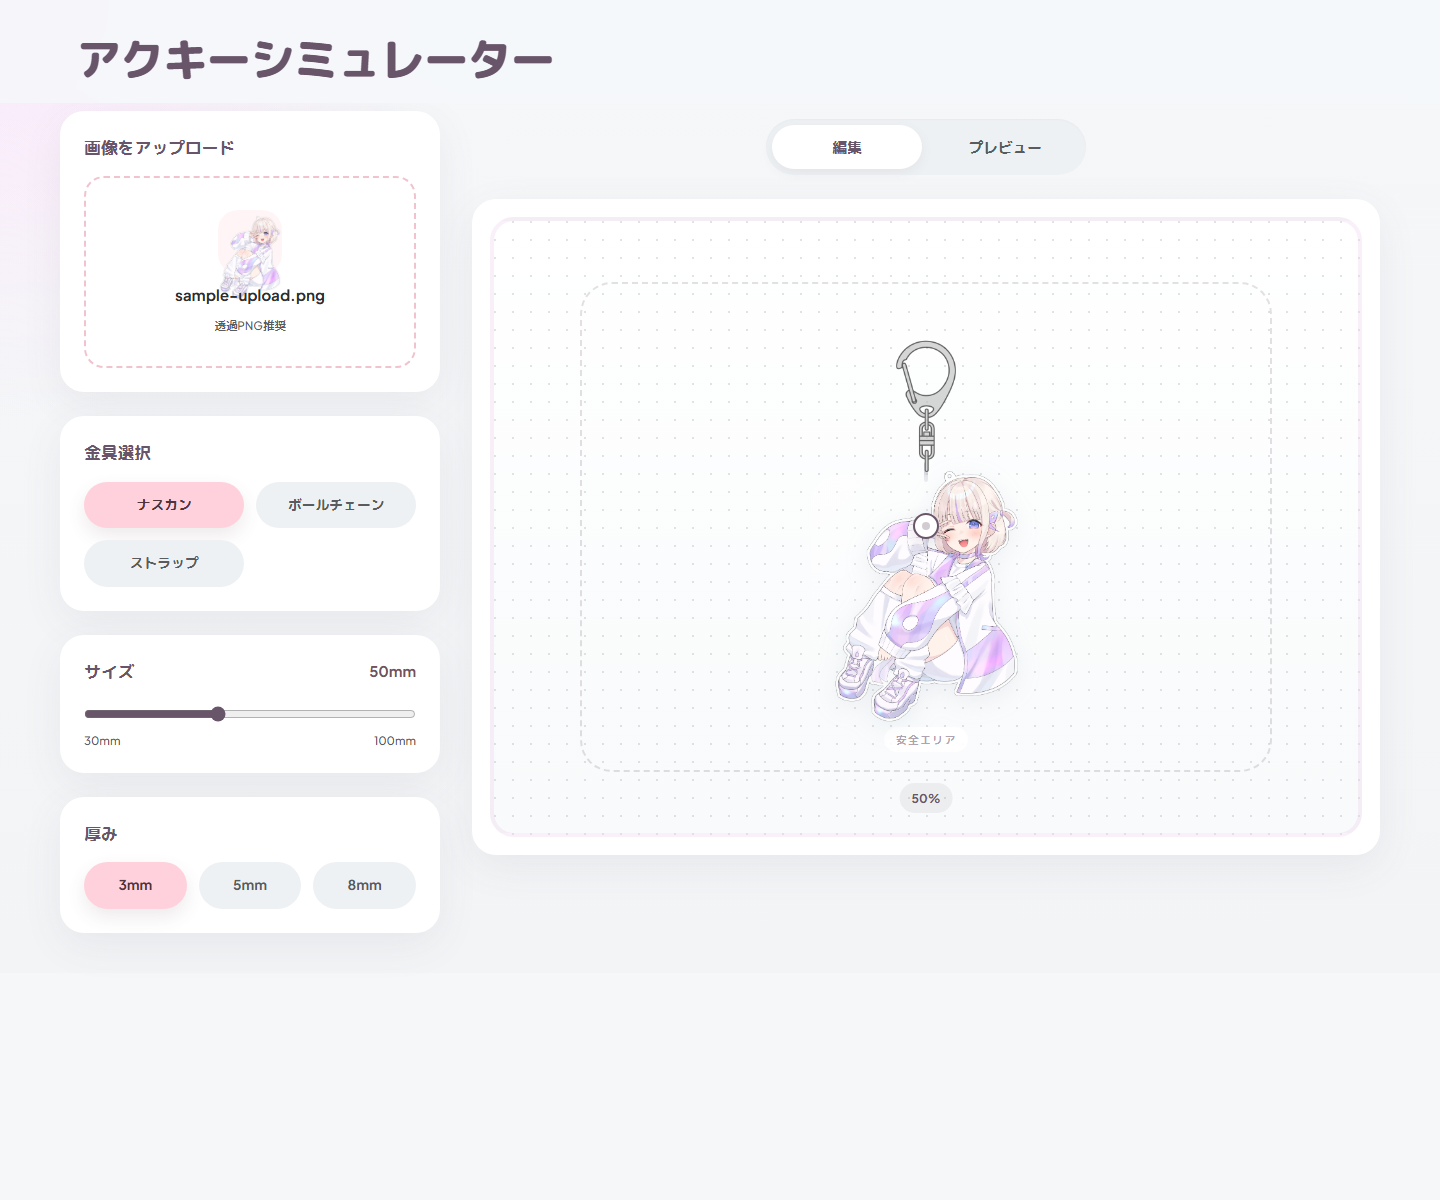
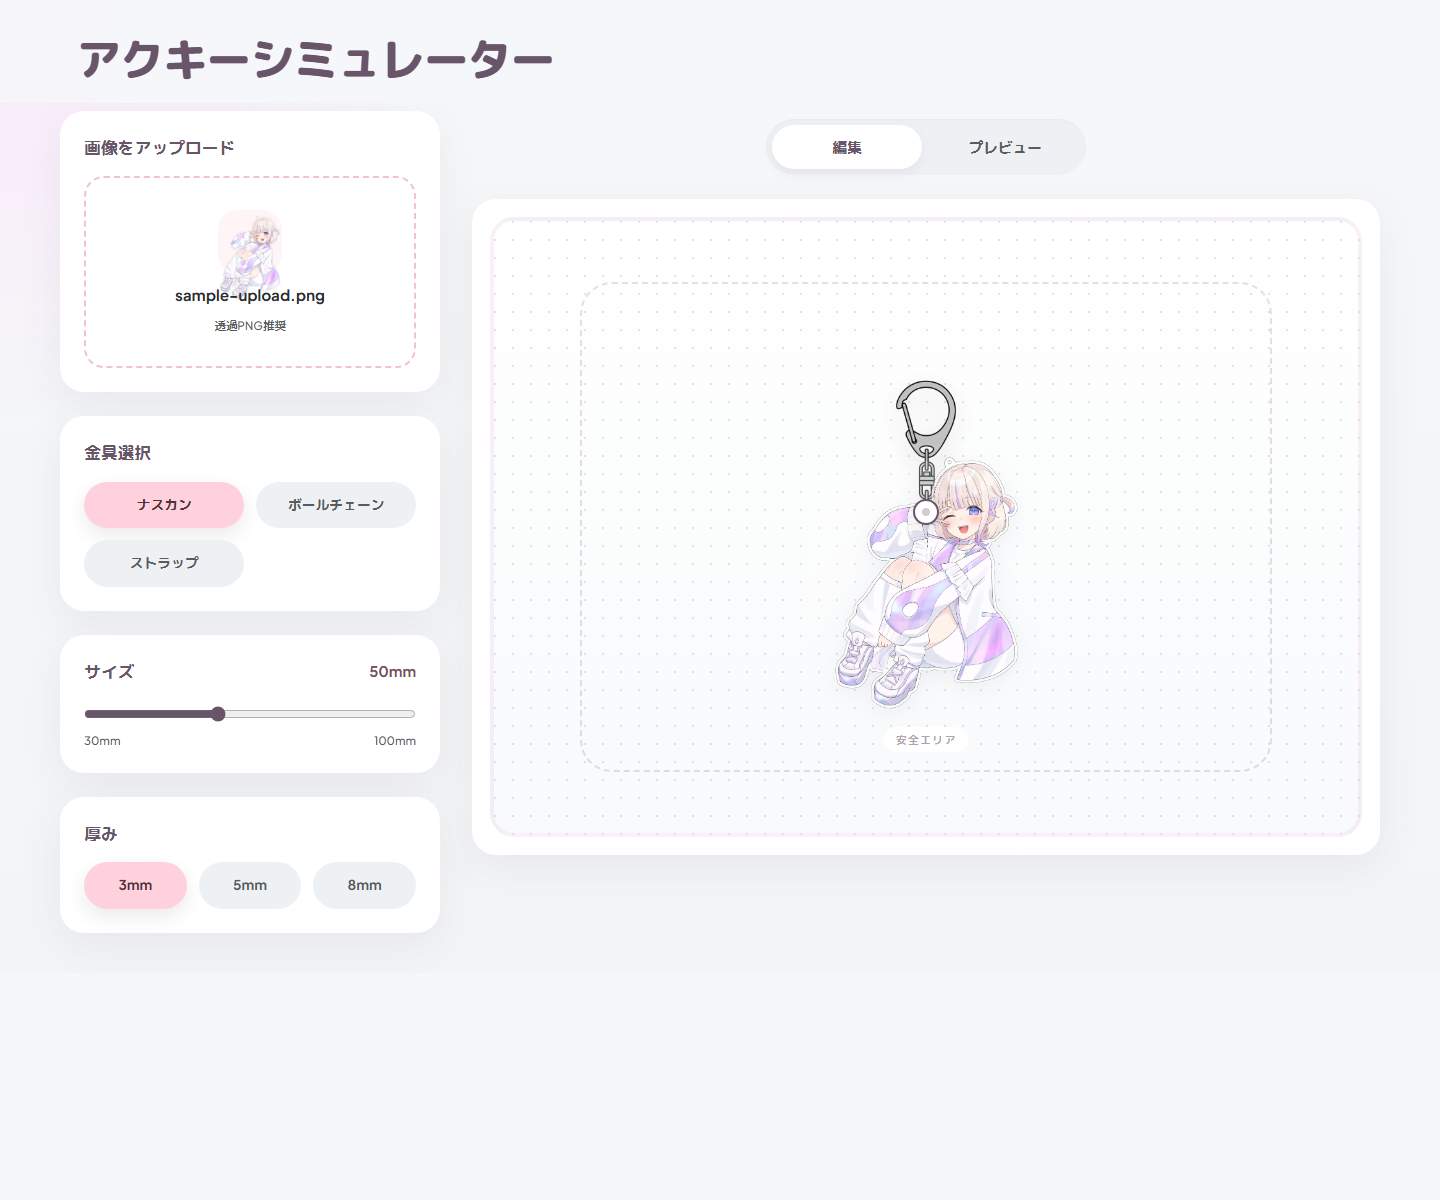
fix: align hardware connection across editor and preview

Changed region(s): [[0.5625, 0.2775, 0.7188, 0.6167], [0.625, 0.6475, 0.6562, 0.6783]]

diff --git a/src/components/EditorCanvas.tsx b/src/components/EditorCanvas.tsx
@@ -4,14 +4,16 @@ import { HardwareStack } from "./HardwareStack";
 import type { Artwork, UploadStatus } from "../simulator";
 
 type Props = {
+  anchorTop: number;
   artwork: Artwork | null;
+  artworkLeft: number;
   artworkSize: number;
+  artworkTop: number;
   hardwareBottomPx: number;
   hardwareHeight: number;
   hardwareWidth: number;
   cardRef: RefObject<HTMLDivElement | null>;
   error: string | null;
-  holePositionLabel: string;
   holeX: number;
   holeY: number;
   onBeginHoleDrag: (event: PointerEvent<HTMLButtonElement>) => void;
@@ -23,14 +25,16 @@ type Props = {
 };
 
 export function EditorCanvas({
+  anchorTop,
   artwork,
+  artworkLeft,
   artworkSize,
+  artworkTop,
   hardwareBottomPx,
   hardwareHeight,
   hardwareWidth,
   cardRef,
   error,
-  holePositionLabel,
   holeX,
   holeY,
   onBeginHoleDrag,
@@ -50,30 +54,34 @@ export function EditorCanvas({
                 <span>安全エリア</span>
               </div>
             </div>
-            <div className="edit-hardware-anchor">
-              <HardwareStack
-                hardwareBottomPx={hardwareBottomPx}
-                hardwareHeight={hardwareHeight}
-                hardwareWidth={hardwareWidth}
-                muted
-                partImage={partImage}
-                ringSize={ringSize}
-                variant="editor"
-              />
+            <div className="swing-anchor" style={{ top: `${anchorTop}px` }}>
+              <div className="swing-body">
+                <HardwareStack
+                  hardwareBottomPx={hardwareBottomPx}
+                  hardwareHeight={hardwareHeight}
+                  hardwareWidth={hardwareWidth}
+                  partImage={partImage}
+                  ringSize={ringSize}
+                  variant="editor"
+                />
+                <div
+                  className={`editor-artwork ${thicknessClass}`}
+                  ref={cardRef}
+                  style={{ left: `${artworkLeft}px`, top: `${artworkTop}px`, width: `${artworkSize}px` }}
+                >
+                  <span className="hole-shadow" style={{ left: `${holeX}px`, top: `${holeY}px` }} />
+                  <button
+                    aria-label="穴位置を調整"
+                    className="hole-handle"
+                    onDoubleClick={onResetHole}
+                    onPointerDown={onBeginHoleDrag}
+                    style={{ left: `${holeX}px`, top: `${holeY}px` }}
+                    type="button"
+                  />
+                  <img alt="アップロード画像" className="artwork-image" draggable={false} src={artwork.previewUrl} />
+                </div>
+              </div>
             </div>
-            <div className={`editor-artwork ${thicknessClass}`} ref={cardRef} style={{ width: `${artworkSize}px` }}>
-              <span className="hole-shadow" style={{ left: `${holeX}px`, top: `${holeY}px` }} />
-              <button
-                aria-label="穴位置を調整"
-                className="hole-handle"
-                onDoubleClick={onResetHole}
-                onPointerDown={onBeginHoleDrag}
-                style={{ left: `${holeX}px`, top: `${holeY}px` }}
-                type="button"
-              />
-              <img alt="アップロード画像" className="artwork-image" draggable={false} src={artwork.previewUrl} />
-            </div>
-            <div className="canvas-caption">{holePositionLabel}</div>
           </>
         ) : (
           <div className={`empty-card is-${status}`}>

diff --git a/src/App.tsx b/src/App.tsx
@@ -18,13 +18,7 @@ import { useArtworkUpload } from "./hooks/useArtworkUpload";
 import { useHoleDrag } from "./hooks/useHoleDrag";
 import { usePartContour } from "./hooks/usePartContour";
 import { usePreviewMotion } from "./hooks/usePreviewMotion";
-import {
-  defaultHole,
-  getInsetHolePercent,
-  getPreviewPhysicsModel,
-  getVisibleArtworkSpanPercent,
-  resolveHole,
-} from "./simulator";
+import { defaultHole, getInsetHolePercent, getPreviewPhysicsModel, getVisibleArtworkSpanPercent, resolveHole } from "./simulator";
 
 export default function App() {
   const [selectedPart, setSelectedPart] = useState<PartId>("nasukan");
@@ -120,9 +114,8 @@ export default function App() {
     });
   };
 
-  const handleResetHole = () => setHolePosition(resolveHole(defaultHole, contour));
-  const holePositionLabel = `${Math.round(holePosition)}%`;
   const sizeLabel = `${(sizeCm * 10).toFixed(0)}mm`;
+  const handleResetHole = () => setHolePosition(resolveHole(defaultHole, contour));
 
   return (
     <>
@@ -175,20 +168,22 @@ export default function App() {
                 artwork={artwork}
                 artworkSize={artworkSize}
                 cardRef={cardRef}
-                error={error}
-                hardwareBottomPx={hardwareBottomPx}
-                hardwareHeight={hardwareHeight}
-                hardwareWidth={hardwareWidth}
-                holePositionLabel={holePositionLabel}
-                holeX={holeX}
-                holeY={holeY}
-                onBeginHoleDrag={beginHoleDrag}
-                onResetHole={handleResetHole}
-                partImage={activePart.image}
-                ringSize={ringSize}
-                status={status}
-                thicknessClass={thicknessClass}
-              />
+              error={error}
+              hardwareBottomPx={hardwareBottomPx}
+              hardwareHeight={hardwareHeight}
+              hardwareWidth={hardwareWidth}
+              holeX={holeX}
+              holeY={holeY}
+              onBeginHoleDrag={beginHoleDrag}
+              onResetHole={handleResetHole}
+              anchorTop={anchorTop}
+              artworkLeft={artworkLeft}
+              partImage={activePart.image}
+              ringSize={ringSize}
+              status={status}
+              artworkTop={artworkTop}
+              thicknessClass={thicknessClass}
+            />
             ) : (
               <PreviewCanvas
                 angle={angle}

diff --git a/src/hooks/useHoleDrag.ts b/src/hooks/useHoleDrag.ts
@@ -10,16 +10,40 @@ type Options = {
 
 export function useHoleDrag({ contour, onChange }: Options) {
   const cardRef = useRef<HTMLDivElement | null>(null);
-  const dragRef = useRef({ startClientX: 0, startPosition: 50, width: 1 });
   const [dragging, setDragging] = useState(false);
+
+  const projectPointerToHole = (clientX: number, clientY: number, rect: DOMRect) => {
+    const xPercent = ((clientX - rect.left) / rect.width) * 100;
+    if (!contour) return resolveHole(xPercent, contour);
+
+    const yPercent = ((clientY - rect.top) / rect.height) * 100;
+    const anchor = resolveHole(xPercent, contour);
+    let nearest = anchor;
+    let bestDistance = Number.POSITIVE_INFINITY;
+
+    contour.topEdgeByPercent.forEach((edgeY, index) => {
+      if (edgeY === null) return;
+      if (Math.abs(index - anchor) > 12) return;
+      const dx = index - xPercent;
+      const dy = edgeY - yPercent;
+      const distance = dx * dx + dy * dy;
+      if (distance < bestDistance) {
+        bestDistance = distance;
+        nearest = index;
+      }
+    });
+
+    return resolveHole(nearest, contour);
+  };
 
   useEffect(() => {
     if (!dragging) return;
 
     const onMove = (event: PointerEvent) => {
-      const drag = dragRef.current;
-      const delta = ((event.clientX - drag.startClientX) / Math.max(drag.width, 1)) * 100 * 0.42;
-      onChange(resolveHole(drag.startPosition - delta, contour));
+      const card = cardRef.current;
+      if (!card) return;
+      const rect = card.getBoundingClientRect();
+      onChange(projectPointerToHole(event.clientX, event.clientY, rect));
     };
     const onUp = () => setDragging(false);
 
@@ -39,13 +63,7 @@ export function useHoleDrag({ contour, onChange }: Options) {
     if (!card) return;
 
     const rect = card.getBoundingClientRect();
-    const ratio = ((event.clientX - rect.left) / rect.width) * 100;
-    dragRef.current = {
-      startClientX: event.clientX,
-      startPosition: resolveHole(ratio, contour),
-      width: rect.width,
-    };
-    onChange(resolveHole(ratio, contour));
+    onChange(projectPointerToHole(event.clientX, event.clientY, rect));
     setDragging(true);
   };
 

diff --git a/src/styles.css b/src/styles.css
@@ -322,21 +322,10 @@ img {
   letter-spacing: 0.08em;
 }
 
-.edit-hardware-anchor {
-  position: absolute;
-  top: 84px;
-  left: 50%;
-  transform: translateX(-50%);
-}
-
 .editor-artwork,
 .preview-artwork {
   position: relative;
   aspect-ratio: 1;
-}
-
-.editor-artwork {
-  margin-top: 126px;
 }
 
 .preview-drag-hint {
@@ -385,6 +374,18 @@ img {
   border-radius: 28px;
   background: linear-gradient(135deg, rgba(255, 255, 255, 0.4), rgba(255, 255, 255, 0) 50%, rgba(255, 255, 255, 0.1));
   z-index: 0;
+}
+
+.editor-artwork::after,
+.preview-artwork::after {
+  content: "";
+  position: absolute;
+  inset: 4px 4px -4px 4px;
+  border-radius: 28px;
+  background: rgba(255, 255, 255, 0.4);
+  z-index: 0;
+  transform: translate(2px, 2px);
+  opacity: 0.4;
 }
 
 .hole-shadow {
@@ -486,7 +487,8 @@ img {
 }
 
 .hardware-stack.is-editor {
-  opacity: 0.62;
+  opacity: 0.94;
+  filter: drop-shadow(0 8px 12px rgba(105, 85, 106, 0.14));
 }
 
 .hardware-stack.is-preview {
@@ -510,6 +512,16 @@ img {
   z-index: 2;
 }
 
+.ring-cap {
+  position: absolute;
+  top: -6px;
+  width: 10px;
+  height: 12px;
+  border-radius: 999px;
+  background: linear-gradient(180deg, rgba(154, 161, 173, 0.96), rgba(224, 228, 234, 0.96));
+  box-shadow: 0 2px 4px rgba(105, 85, 106, 0.08);
+}
+
 .ring-image {
   object-fit: contain;
   filter: drop-shadow(0 4px 8px rgba(148, 163, 184, 0.24)) brightness(0.9) contrast(1.1);
@@ -523,6 +535,11 @@ img {
   filter: drop-shadow(0 6px 12px rgba(148, 163, 184, 0.14));
 }
 
+.thickness-3::after {
+  transform: translate(1px, 1px);
+  opacity: 0.18;
+}
+
 .thickness-5 .artwork-image {
   filter: drop-shadow(0 8px 16px rgba(148, 163, 184, 0.18)) saturate(1.02);
 }
@@ -532,6 +549,11 @@ img {
   opacity: 0.78;
 }
 
+.thickness-5::after {
+  transform: translate(3px, 3px);
+  opacity: 0.28;
+}
+
 .thickness-8 .artwork-image {
   filter: drop-shadow(0 10px 20px rgba(148, 163, 184, 0.24)) saturate(1.04);
 }
@@ -539,6 +561,11 @@ img {
 .thickness-8::before {
   transform: translate(5px, 4px);
   opacity: 0.92;
+}
+
+.thickness-8::after {
+  transform: translate(5px, 4px);
+  opacity: 0.38;
 }
 
 @media (max-width: 720px) {

diff --git a/src/components/HardwareStack.tsx b/src/components/HardwareStack.tsx
@@ -45,6 +45,7 @@ export function HardwareStack({
       />
 
       <div className="ring-layer" style={{ top: `${hardwareBottomPx + ringSize * 0.08}px` }}>
+        <span className="ring-cap" />
         <img
           alt=""
           className="ring-image"
